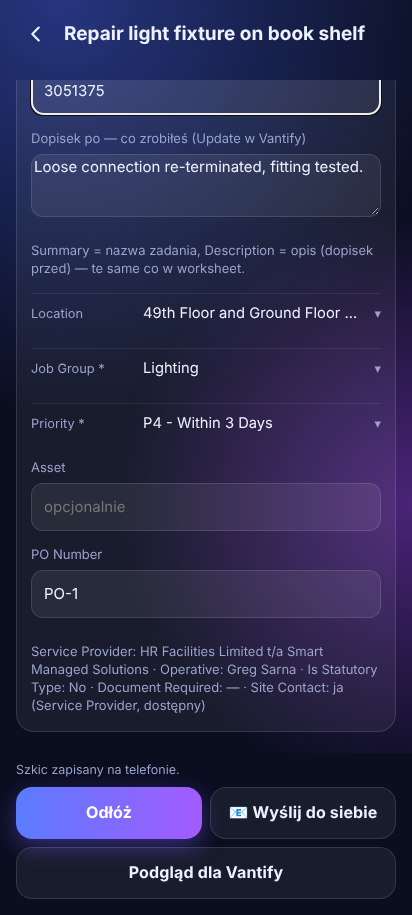
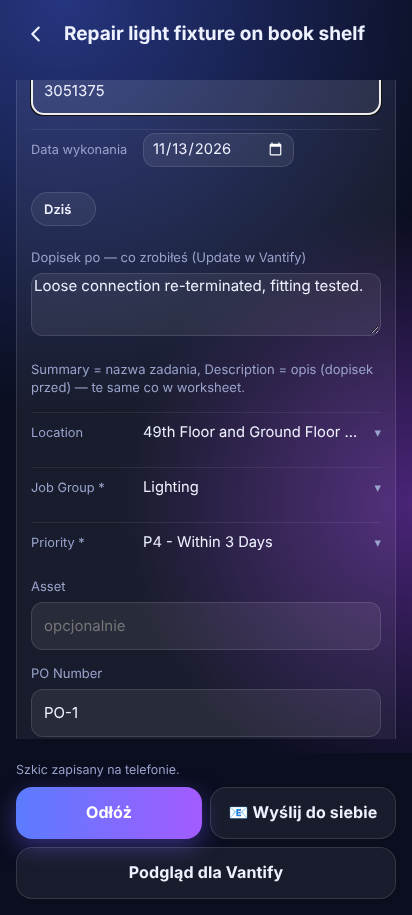
Reactive Zrobione → Vantify: daty ze zdjęć (zlecenie = przed, wykonanie = po), „Dziś”, data worksheetu = data wykonania
Claude-Session: https://claude.ai/code/session_01F3GNBi5oShkW5yXwNh8sS2

diff --git a/app/www/reactive.js b/app/www/reactive.js
@@ -80,6 +80,7 @@
   function vpanel(){const v=draft.vantify,ls=V.lists(),me=[w.OESTSettings.get().profile.first,w.OESTSettings.get().profile.last].filter(Boolean).join(' ');
     return panel('<div class="label">'+L('Vantify — rubryki zlecenia','Vantify — job fields')+'</div>'+
       vfield(L('Nr zlecenia Vantify','Vantify job no.'),'jobNo',v.jobNo,L('wpisz, gdy Vantify nada numer','enter when Vantify gives the number'))+
+      '<div class="rx-f"><label class="rx-fr"><span class="k">'+L('Data wykonania','Date completed')+'</span><input type="date" class="v" data-rx-field="doneDate" value="'+esc(draft.doneDate||'')+'"></label></div><div class="rx-chips">'+chip(L('Dziś','Today'),'v-today')+'</div>'+
       '<label class="field"><span>'+L('Dopisek po — co zrobiłeś (Update w Vantify)','Note after — what you did (Vantify update)')+'</span><textarea data-rx-field="afterNote" maxlength="4000" rows="3">'+esc(draft.afterNote||'')+'</textarea></label>'+
       '<p class="rx-sub">'+L('Summary = nazwa zadania, Description = opis (dopisek przed) — te same co w worksheet.','Summary = job name, Description = description (note before) — the same as in the worksheet.')+'</p>'+
       vlist('location','Location',ls.locations)+vlist('jobGroup','Job Group *',ls.jobGroups)+vlist('priority','Priority *',ls.priorities)+
@@ -128,7 +129,9 @@
   /* Jeden zapis zdjęcia (Grzegorz 04/11/2026): zdjęcie zapisuje się raz w module zdjęć (folder OEST, trzymane przez Reactive,
      więc sprzątanie go nie skasuje); zadanie ma tylko jego id (zid). Bez modułu albo gdy nie przyjmie zdjęcia: własna kopia jak dawniej. */
   async function photoMedia(file,phase,extra){const base={id:crypto.randomUUID(),kind:'photo',name:'Reactive photo.jpg',mime:'image/jpeg'};if(w.OESTZdjecia){try{const r=await w.OESTZdjecia.save(file,{source:'reactive',category:'Reactive',code:phase==='before'?'przed':'po',location:[draft.building,draft.level,draft.room].filter(Boolean).join(' '),hold:'reactive',kind:'ogolne',...(extra||{})});return{...base,zid:r.id,blob:r.blob,size:r.blob.size};}catch(e){}}const prepared=await w.OESTKeys.prepareMedia(file),c=prepared.canvas,blob=await new Promise(resolve=>c.toBlob(resolve,'image/jpeg',.72));if(!blob)throw Error('IMAGE_COMPRESSION');return{...base,blob,size:blob.size};}
-  async function addPhoto(file,phase){if((draft.beforeMediaIds.length+draft.afterMediaIds.length)>=30)throw Error('MAX_30_PHOTOS');const media=await photoMedia(file,phase);ensure();pendingMedia.set(media.id,media);draft[phase+'MediaIds'].push(media.id);await persist();}
+  async function addPhoto(file,phase){if((draft.beforeMediaIds.length+draft.afterMediaIds.length)>=30)throw Error('MAX_30_PHOTOS');const media=await photoMedia(file,phase);ensure();pendingMedia.set(media.id,media);draft[phase+'MediaIds'].push(media.id);if(draft.vantify)await photoDate(file,phase);await persist();}
+  /* Zrobione → Vantify (Grzegorz 13/11/2026): daty ze zdjęć – data zlecenia = najwcześniejsze zdjęcie przed, data wykonania = najpóźniejsze zdjęcie po (EXIF, zapas: data pliku); pola można poprawić ręcznie */
+  async function photoDate(file,phase){const ex=w.OESTZdjecia?.exifDate?await w.OESTZdjecia.exifDate(file):null,lm=Number(file?.lastModified),t=ex||(lm>0&&lm<=Date.now()+6e4?new Date(lm):null);if(!t)return;const day=V.ymd(t);if(phase==='before'){if(!draft.orderDateFromPhoto||day<draft.orderDate){draft.orderDate=day;draft.orderDateFromPhoto=true;}}else if(!draft.doneDate||day>draft.doneDate)draft.doneDate=day;/* pola na ekranie też, bo zapis szkicu czyta pola */for(const k of ['orderDate','doneDate']){const el=document.querySelector('#v-reactive [data-rx-field="'+k+'"]');if(el)el.value=draft[k]||'';}}
   async function save(){if(recBusy())throw Error('STOP_RECORDING_FIRST');collect();if(draft.vantify)V.validate(draft);await persist();const saved=await repo.saveReactive(draft);ensure();draft={...saved.reactive,jobId:saved.id};data=await repo.get();return saved;}
   async function send(){C.validate(draft);/* raport także w trakcie pracy: bez akcji zostaje bieżący status (np. Open) */const profile=w.OESTSettings.get().profile;if(!profile.companyEmail)throw Error(L('Uzupełnij firmowy e-mail w Mój profil.','Add your work email in My Profile.'));if(!w.Capacitor?.isNativePlatform())throw Error(L('Wysyłanie raportu z załącznikami działa w aplikacji Android.','Sending a report with attachments works in the Android app.'));if(!draft.reportEdited){draft.reportText=C.details(draft.pendingActionId?{...draft,actionId:draft.pendingActionId}:draft);const area=document.querySelector('[data-rx-field=reportText]');if(area)area.value=draft.reportText;}const saved=await save();if(/^reactive\/(new|draft)\//.test(route)){route='reactive/job/'+saved.id;history.replaceState(history.state,'','#'+route);}const fields=C.report(draft.pendingActionId?{...draft,actionId:draft.pendingActionId,reportText:draft.reportEdited?draft.reportText:''}:draft,profile),photos=[];for(const phase of ['before','after'])for(const id of draft[phase+'MediaIds']){const m=await repo.media(id);if(!m)throw Error('EVIDENCE_MISSING');photos.push({...m,phase});}message(L('Tworzenie Word + PDF…','Creating Word + PDF…'));const RR=w.OESTReactiveReport,mb=n=>(n/1048576).toFixed(1).replace('.',L(',','.')),report=await RR.fit(px=>RR.build(fields,photos,{px}),big=>w.OESTPrzycisk?.confirm?w.OESTPrzycisk.confirm(L('Plik raportu będzie miał '+mb(big)+' MB (limit 1 MB). Zmniejszyć zdjęcia w raporcie, czy zostawić je tak, jak są?','The report file will be '+mb(big)+' MB (limit 1 MB). Make the photos in the report smaller, or keep them as they are?'),{ok:L('Zmniejsz zdjęcia','Make smaller'),cancel:L('Zostaw tak','Keep as is'),danger:false}):false);ensure();const files=[];draft.reportMediaIds=[];for(const [ext,mime]of [['docx','application/vnd.openxmlformats-officedocument.wordprocessingml.document'],['pdf','application/pdf']]){const blob=new Blob([report[ext]],{type:mime}),media={id:crypto.randomUUID(),kind:'report',blob,mime,name:fields.fileName+'.'+ext,size:blob.size};pendingMedia.set(media.id,media);draft.reportMediaIds=draft.reportMediaIds||[];draft.reportMediaIds.push(media.id);files.push({name:media.name,data:await w.OESTVoice.base64(blob)});}await persist();await repo.saveReactive(draft);if(w.OESTSender?.active?.()&&w.OESTSender.enqueue){await w.OESTSender.enqueue({type:'reactive',key:'reactive-'+saved.id/* osobny raport na każde zadanie, nawet przy tej samej nazwie */,code:fields.title,name:fields.fileName,subject:fields.title,body:fields.details,docx:new Uint8Array(report.docx),pdf:new Uint8Array(report.pdf)});await repo.reactiveDelivery(saved.id,'shared');message(L('W kolejce do wysłania — pasek na dole pokaże wysyłkę. Zadanie zostaje otwarte.','Queued for sending — the bar at the bottom shows progress. The job stays open.'));return;}try{const plugin=w.Capacitor.registerPlugin('ReportShare'),result=await plugin.share({subject:fields.title,body:fields.details,to:[profile.companyEmail],files});if(result?.status!=='shared')throw Error('SHARE_UNCONFIRMED');await repo.reactiveDelivery(saved.id,'shared');message(L('Przekazano do poczty. Wysłanie i doręczenie nie są potwierdzone. Pliki zapisane na telefonie.','Handed to the mail app. Sending and delivery are not confirmed. Files saved on the phone.'));}catch(e){await repo.reactiveDelivery(saved.id,e.name==='AbortError'?'cancelled':'failed');throw e;}}
   async function act(action,b){if(busy)return;switch(action){case 'back':if(!canLeave())return;if(draft&&!draft.jobId&&pristine){collect();if(JSON.stringify(draft)===pristine){pristine='';repo.deleteReactiveDraft(draft.draftId).catch(()=>{});}}{const part=route.split('/'),result=part[1]==='tree'?C.find(part[2]):null;const parent=result?findParent(part[2]):null;navigate(route==='reactive'?'home':part[1]==='complete'?'reactive/job/'+part[2]:parent?'reactive/tree/'+parent:'reactive');}return;
@@ -144,6 +147,7 @@
     case 'park':run(async()=>{collect();await persist();if(!C.missing(draft).length){await save();}busy=false;navigate('reactive');});return;
     case 'row':collect();openRow=openRow===b.dataset.id?'':b.dataset.id;persist(false);render();renderEvidence();return;
     case 'who':collect();if(draft.requestedBy!==b.dataset.value)draft.requestedName='';draft.requestedBy=b.dataset.value;openRow='';persist(false);render();renderEvidence();return;
+    case 'v-today':collect();draft.doneDate=V.ymd(new Date());persist(false);render();renderEvidence();return;
     case 'vpick-location':case 'vpick-jobGroup':case 'vpick-priority':collect();draft.vantify={...draft.vantify,[action.slice(6)]:b.dataset.value};openRow='';persist(false);render();renderEvidence();return;
     case 'type':collect();draft.jobType=b.dataset.value;openRow='';persist(false);render();renderEvidence();return;
     case 'filter':listFilter=b.dataset.id;render();renderEvidence();return;

diff --git a/app/www/reactive-core.js b/app/www/reactive-core.js
@@ -18,6 +18,6 @@
   function details(d){return [sentence(d),d.room?'Room/area: '+d.room:'',(d.problemId&&find(d.problemId)?.node.context)||'',d.orderDate?'Order date: '+d.orderDate.split('-').reverse().join('/'):'',d.jobType?'Type: '+d.jobType:'',d.note||'',...voice(d),d.afterNote?'Work carried out: '+d.afterNote:''/* dopisek po (Zrobione → Vantify, 13/11/2026) */,d.partsNote?'Parts: '+d.partsNote:'',d.expectedDate?'Expected date: '+d.expectedDate:'',(who(d)==='self'?'Proactive work (engineer initiative)':'Requested by: '+whoLabel(d)+(d.requestedName?' — '+d.requestedName:''))].filter(Boolean).join('\n');}
   function fromJob(job,entry){return {jobId:job.id,problemId:'other',title:job.text||entry?.text||'Reactive job',problem:job.text||entry?.text||'',building:'',level:'',room:job.location||'',note:'',requestedBy:'',requestedName:'',quote:false,beforeMediaIds:entry?.mediaIds||[],afterMediaIds:[],audioMediaIds:[],...job.reactive,status:status(job)};}
   function days(created,now=new Date().toISOString()){return Math.max(0,Math.floor((Date.parse(now)-Date.parse(created))/86400000));}
-  function report(d,profile,date=new Date()){const y=date.getFullYear(),m=String(date.getMonth()+1).padStart(2,'0'),day=String(date.getDate()).padStart(2,'0'),engineer=profile.formSignature||[profile.first,profile.last].filter(Boolean).join(' ');return {site:'One Eastside Tower',date:day+'/'+m+'/'+y,engineer,author:[profile.first,profile.last].filter(Boolean).join(' ')||engineer,title:d.title||d.problem,condition:d.temporary?'Open — Temporary repair':labels[d.status],building:d.building,level:d.level,details:(d.vantify?.jobNo?'Vantify Job No.: '+String(d.vantify.jobNo).trim()+'\n':'')+(d.reportText||details(d)),/* numer zlecenia Vantify w worksheet (Grzegorz 13/11/2026) */quote:d.quote?'Yes':'No',fileName:('REACTIVE '+(d.title||d.problem)+' '+day+m+y).replace(/[\\/:*?"<>|\r\n]/g,' ').slice(0,170)};}
+  function report(d,profile,date=new Date()){{const m=/^(\d{4})-(\d{2})-(\d{2})$/.exec(d.doneDate||'');if(m)date=new Date(+m[1],+m[2]-1,+m[3]);}/* Zrobione → Vantify: data worksheetu = data wykonania (ze zdjęcia po, 13/11/2026) */const y=date.getFullYear(),m=String(date.getMonth()+1).padStart(2,'0'),day=String(date.getDate()).padStart(2,'0'),engineer=profile.formSignature||[profile.first,profile.last].filter(Boolean).join(' ');return {site:'One Eastside Tower',date:day+'/'+m+'/'+y,engineer,author:[profile.first,profile.last].filter(Boolean).join(' ')||engineer,title:d.title||d.problem,condition:d.temporary?'Open — Temporary repair':labels[d.status],building:d.building,level:d.level,details:(d.vantify?.jobNo?'Vantify Job No.: '+String(d.vantify.jobNo).trim()+'\n':'')+(d.reportText||details(d)),/* numer zlecenia Vantify w worksheet (Grzegorz 13/11/2026) */quote:d.quote?'Yes':'No',fileName:('REACTIVE '+(d.title||d.problem)+' '+day+m+y).replace(/[\\/:*?"<>|\r\n]/g,' ').slice(0,170)};}
   return {voicePl,find,levels,status,labels,labelsPl,uiLabel,legacy,validate,missing,finish,sentence,details,fromJob,days,report,whoLabel,requestLabels,BUILDINGS};
 });

diff --git a/app/www/reactive-vantify.js b/app/www/reactive-vantify.js
@@ -39,15 +39,17 @@
     function summary(d) { return String(d?.title || d?.problem || '').trim(); }
   function description(d) { return String(d?.note || '').trim(); }
   function after(d) { return String(d?.afterNote || '').trim(); }
-  function day(at) { const t = at ? new Date(at) : new Date(); return isNaN(t) ? '' : String(t.getDate()).padStart(2, '0') + '/' + String(t.getMonth() + 1).padStart(2, '0') + '/' + t.getFullYear(); }
-  // tekst Update w kroku 2: dopisek po + data wykonania (data zakończenia zadania albo dzisiejsza)
-  function update(d, at) { const a = after(d); return (a ? a.replace(/[.\s]+$/, '') + '.\n' : '') + 'Work completed on ' + day(at || d?.completedAt) + '.'; }
+  const ymd = t => t.getFullYear() + '-' + String(t.getMonth() + 1).padStart(2, '0') + '-' + String(t.getDate()).padStart(2, '0');
+  const dmy = s => /^\d{4}-\d{2}-\d{2}$/.test(String(s || '')) ? s.split('-').reverse().join('/') : '';
+  // tekst Update w kroku 2: dopisek po + data wykonania (pole „Data wykonania” = najpóźniejsze zdjęcie po; bez daty – brak)
+  function update(d) { const a = after(d); return (a ? a.replace(/[.\s]+$/, '') + '.\n' : '') + 'Work completed on ' + (dmy(d?.doneDate) || '—') + '.'; }
   function missing(d) {
     const v = d?.vantify || {}, m = [];
     if (!summary(d)) m.push(['nazwa zadania (Summary)', 'job name (Summary)']);
     else if (summary(d).length > 255) m.push(['krótsza nazwa zadania (Summary do 255 znaków)', 'shorter job name (Summary up to 255 characters)']);
     if (!description(d)) m.push(['dopisek przed (Description)', 'note before (Description)']);
     if (!after(d)) m.push(['dopisek po (Update)', 'note after (Update)']);
+    if (!dmy(d?.doneDate)) m.push(['data wykonania', 'date completed']);
     if (!String(v.jobGroup || '').trim()) m.push(['Job Group', 'Job Group']);
     if (!String(v.priority || '').trim()) m.push(['Priority', 'Priority']);
     if (!(d?.beforeMediaIds || []).length) m.push(['zdjęcie przed', 'photo before']);
@@ -58,6 +60,7 @@
     const v = d?.vantify;
     if (!v || typeof v !== 'object') throw Error('VANTIFY_FIELDS');
     for (const k of KEYS) if (String(v[k] ?? '').length > LIMITS[k]) throw Error('VANTIFY_FIELDS');
+    if (d.doneDate && !dmy(d.doneDate)) throw Error('VANTIFY_FIELDS');
     if (String(d.afterNote || '').length > 4000) throw Error('VANTIFY_FIELDS');
     if (v.jobNo && !/^\d{1,20}$/.test(String(v.jobNo).trim())) throw Error('VANTIFY_JOB_NO');
     if (v.statutory !== false || v.documentRequired || v.serviceProvider !== SERVICE_PROVIDER) throw Error('VANTIFY_FIELDS');
@@ -86,5 +89,5 @@
       ['Update', 'File', (d?.afterMediaIds || []).length + ' after'],
     ];
   }
-  return { update, after, LOOKUP_KEY, SERVICE_PROVIDER, RELATIONSHIP, PRIORITY, KEYS, LIMITS, defaults, lists, summary, description, missing, validate, rubrics };
+  return { ymd, dmy, update, after, LOOKUP_KEY, SERVICE_PROVIDER, RELATIONSHIP, PRIORITY, KEYS, LIMITS, defaults, lists, summary, description, missing, validate, rubrics };
 });
